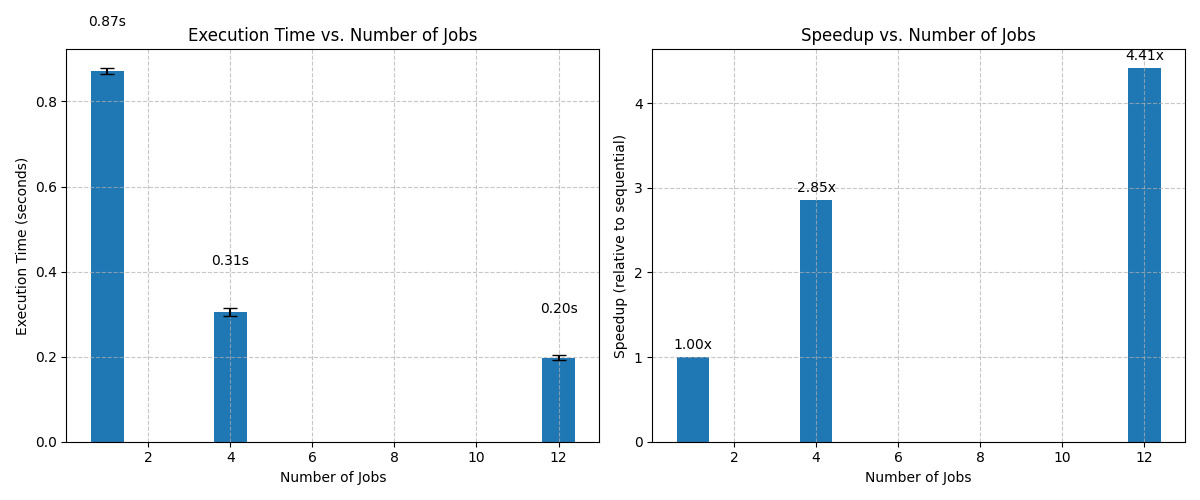
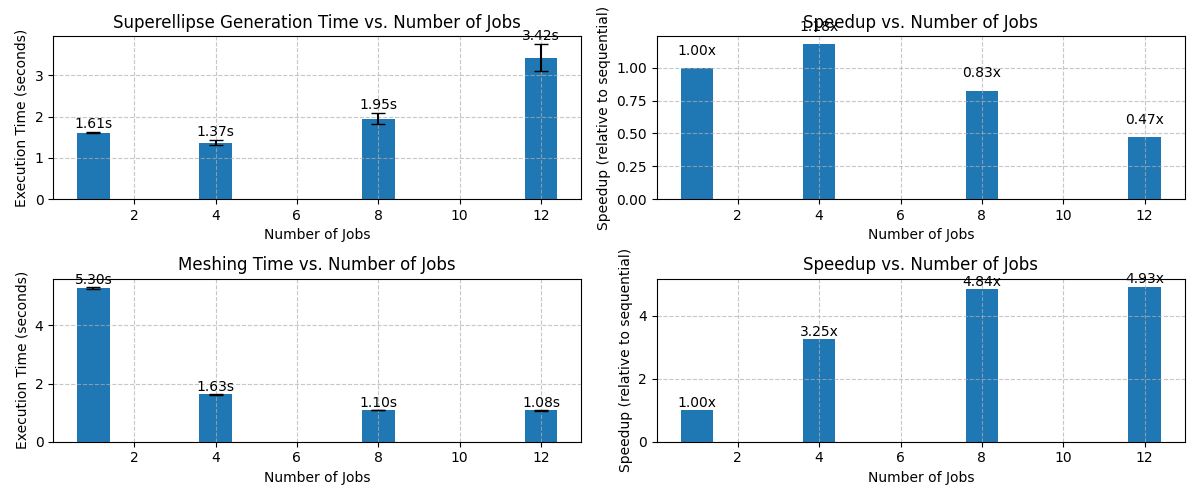
added parallel and benchmark for super ellipse computation

diff --git a/examples/uncertainty_tube_benchmark.py b/examples/uncertainty_tube_benchmark.py
@@ -1,6 +1,9 @@
+from operator import mul
+from tracemalloc import start
 import numpy as np
 import time
 import matplotlib.pyplot as plt
+import multiprocessing
 
 from uvisbox.Datasets import flowmap_3d
 from uvisbox.Interpolations import linear_interpolate
@@ -34,10 +37,26 @@ def benchmark_uncertainty_tube(n_seeds=100, n_steps=100, n_jobs_list=[1, 4, 12],
     
     # Generate cross sections (do this once, outside the timing loop)
     print("Generating cross sections...")
-    cross_sections, _ = generate_uncertainty_tube(trajectories, None, 16, e_proj=0.5)
+
+    superellipse_results = {}
+    for n_jobs in n_jobs_list:
+        times = []
+        for i in range(repeats):
+            start_time = time.perf_counter_ns()
+            _,_ = generate_uncertainty_tube(trajectories, None, 16, e_proj=0.5, n_jobs=n_jobs)
+            end_time = time.perf_counter_ns()
+            elapsed = (end_time - start_time) / 1e9  # Convert to seconds
+            times.append(elapsed)
+            print(f"n_jobs={n_jobs}, Run {i+1}/{repeats}: {elapsed:.3f} seconds")
+        mean_time = np.mean(times)
+        std_time = np.std(times)
+        print(f"n_jobs={n_jobs}: Mean time = {mean_time:.3f} ± {std_time:.3f} seconds")
+        superellipse_results[n_jobs] = {'times': times, 'mean': mean_time, 'std': std_time}
+
+    cross_sections, _ = generate_uncertainty_tube(trajectories, None, 16, e_proj=0.5, n_jobs=12)
     
     # Benchmark each n_jobs value
-    results = {}
+    meshing_results = {}
     
     for n_jobs in n_jobs_list:
         times = []
@@ -46,59 +65,88 @@ def benchmark_uncertainty_tube(n_seeds=100, n_steps=100, n_jobs_list=[1, 4, 12],
             print(f"  Run {i+1}/{repeats}...")
             
             # Time the mesh generation
-            start_time = time.time()
+            start_time = time.perf_counter_ns()
             _, _, _ = generate_tube_mesh(trajectories, cross_sections, n_jobs=n_jobs)
-            end_time = time.time()
+            end_time = time.perf_counter_ns()
             
-            elapsed = end_time - start_time
+            elapsed = (end_time - start_time)/1e9  # Convert to seconds
             times.append(elapsed)
             print(f"  Completed in {elapsed:.3f} seconds")
         
         # Store results
-        results[n_jobs] = {
+        meshing_results[n_jobs] = {
             'times': times,
             'mean': np.mean(times),
             'std': np.std(times)
         }
-        print(f"Average time with n_jobs={n_jobs}: {results[n_jobs]['mean']:.3f} ± {results[n_jobs]['std']:.3f} seconds")
+        print(f"Average time with n_jobs={n_jobs}: {meshing_results[n_jobs]['mean']:.3f} ± {meshing_results[n_jobs]['std']:.3f} seconds")
     
-    return results
+    return superellipse_results, meshing_results
 
-def plot_results(results):
+def plot_results(superellipse_results,meshing_results):
+    # Create figure with two subplots
+    fig, ax = plt.subplots(2, 2, figsize=(12, 5))
+    sax1, sax2 = ax[0]
     """Plot benchmark results."""
-    n_jobs_values = list(results.keys())
-    mean_times = [results[n_jobs]['mean'] for n_jobs in n_jobs_values]
-    std_times = [results[n_jobs]['std'] for n_jobs in n_jobs_values]
+    superellipse_n_jobs_values = list(superellipse_results.keys())
+    superellipse_mean_times = [superellipse_results[n_jobs]['mean'] for n_jobs in superellipse_n_jobs_values]
+    superellipse_std_times = [superellipse_results[n_jobs]['std'] for n_jobs in superellipse_n_jobs_values]
+    # Calculate speedup relative to sequential (n_jobs=1)
+    superellipse_sequential_time = superellipse_results[1]['mean']
+    superellipse_speedups = [superellipse_sequential_time / time for time in superellipse_mean_times]
+    # Plot superellipse generation times
+    sax1.bar(superellipse_n_jobs_values, superellipse_mean_times, yerr=superellipse_std_times, capsize=5)
+    sax1.set_xlabel('Number of Jobs') 
+    sax1.set_ylabel('Execution Time (seconds)')
+    sax1.set_title('Superellipse Generation Time vs. Number of Jobs')
+    sax1.grid(True, linestyle='--', alpha=0.7)
+    # Add time labels on top of bars
+    for i, time_val in enumerate(superellipse_mean_times):
+        sax1.text(superellipse_n_jobs_values[i], time_val + superellipse_std_times[i] + 0.1, 
+                 f"{time_val:.2f}s", ha='center')
+    # Plot speedup
+    sax2.bar(superellipse_n_jobs_values, superellipse_speedups)
+    sax2.set_xlabel('Number of Jobs')
+    sax2.set_ylabel('Speedup (relative to sequential)')
+    sax2.set_title('Speedup vs. Number of Jobs')
+    sax2.grid(True, linestyle='--', alpha=0.7)
+    # Add speedup labels on top of bars
+    for i, speedup in enumerate(superellipse_speedups):
+        sax2.text(superellipse_n_jobs_values[i], speedup + 0.1, f"{speedup:.2f}x", ha='center') 
+
+
+    meshing_n_jobs_values = list(meshing_results.keys())
+    meshing_mean_times = [meshing_results[n_jobs]['mean'] for n_jobs in meshing_n_jobs_values]
+    meshing_std_times = [meshing_results[n_jobs]['std'] for n_jobs in meshing_n_jobs_values]
     
     # Calculate speedup relative to sequential (n_jobs=1)
-    sequential_time = results[1]['mean']
-    speedups = [sequential_time / time for time in mean_times]
+    meshing_sequential_time = meshing_results[1]['mean']
+    meshing_speedups = [meshing_sequential_time / time for time in meshing_mean_times]
     
-    # Create figure with two subplots
-    fig, (ax1, ax2) = plt.subplots(1, 2, figsize=(12, 5))
-    
+    # Plot superellipse generation times
+    max1, max2 = ax[1]
     # Plot execution times
-    ax1.bar(n_jobs_values, mean_times, yerr=std_times, capsize=5)
-    ax1.set_xlabel('Number of Jobs')
-    ax1.set_ylabel('Execution Time (seconds)')
-    ax1.set_title('Execution Time vs. Number of Jobs')
-    ax1.grid(True, linestyle='--', alpha=0.7)
+    max1.bar(meshing_n_jobs_values, meshing_mean_times, yerr=meshing_std_times, capsize=5)
+    max1.set_xlabel('Number of Jobs')
+    max1.set_ylabel('Execution Time (seconds)')
+    max1.set_title('Meshing Time vs. Number of Jobs')
+    max1.grid(True, linestyle='--', alpha=0.7)
     
     # Add time labels on top of bars
-    for i, time_val in enumerate(mean_times):
-        ax1.text(n_jobs_values[i], time_val + std_times[i] + 0.1, 
+    for i, time_val in enumerate(meshing_mean_times):
+        max1.text(meshing_n_jobs_values[i], time_val + meshing_std_times[i] + 0.1, 
                  f"{time_val:.2f}s", ha='center')
     
     # Plot speedup
-    ax2.bar(n_jobs_values, speedups)
-    ax2.set_xlabel('Number of Jobs')
-    ax2.set_ylabel('Speedup (relative to sequential)')
-    ax2.set_title('Speedup vs. Number of Jobs')
-    ax2.grid(True, linestyle='--', alpha=0.7)
+    max2.bar(meshing_n_jobs_values, meshing_speedups)
+    max2.set_xlabel('Number of Jobs')
+    max2.set_ylabel('Speedup (relative to sequential)')
+    max2.set_title('Speedup vs. Number of Jobs')
+    max2.grid(True, linestyle='--', alpha=0.7)
     
     # Add speedup labels on top of bars
-    for i, speedup in enumerate(speedups):
-        ax2.text(n_jobs_values[i], speedup + 0.1, f"{speedup:.2f}x", ha='center')
+    for i, speedup in enumerate(meshing_speedups):
+        max2.text(meshing_n_jobs_values[i], speedup + 0.1, f"{speedup:.2f}x", ha='center')
     
     plt.tight_layout()
     plt.savefig('tube_mesh_benchmark.png')
@@ -106,21 +154,21 @@ def plot_results(results):
 
 if __name__ == "__main__":
     # Set parameters
-    n_seeds = 50  # More seeds means more work to parallelize
+    n_seeds = 300  # More seeds means more work to parallelize
     n_steps = 100
-    n_jobs_list = [1, 4, 12]
+    n_jobs_list = [1, 4, 8,multiprocessing.cpu_count()]  # Test with different n_jobs values
     repeats = 3
     
     # Run benchmark
-    results = benchmark_uncertainty_tube(n_seeds, n_steps, n_jobs_list, repeats)
+    superellipse_results, meshing_results = benchmark_uncertainty_tube(n_seeds, n_steps, n_jobs_list, repeats)
     
     # Plot results
-    plot_results(results)
+    plot_results(superellipse_results,meshing_results)
     
     # Print summary
     print("\nPerformance Summary:")
     print("-------------------")
-    baseline = results[1]['mean']
+    baseline = meshing_results[1]['mean']
     for n_jobs in n_jobs_list:
-        speedup = baseline / results[n_jobs]['mean']
-        print(f"n_jobs={n_jobs}: {results[n_jobs]['mean']:.3f}s ± {results[n_jobs]['std']:.3f}s (Speedup: {speedup:.2f}x)")
+        speedup = baseline / meshing_results[n_jobs]['mean']
+        print(f"n_jobs={n_jobs}: {meshing_results[n_jobs]['mean']:.3f}s ± {meshing_results[n_jobs]['std']:.3f}s (Speedup: {speedup:.2f}x)")

diff --git a/uvisbox/UncertaintyTube/uncertainty_tube.py b/uvisbox/UncertaintyTube/uncertainty_tube.py
@@ -123,7 +123,7 @@ def uncertainty_cross_section(point0, point1, points, resolution=16, e_proj=1, s
     eigen_values = np.tile(eigvals_proj[:2], (cross_section_3d.shape[0], 1))
     return cross_section_3d, eigen_values
 
-def generate_uncertainty_tube(trajectories, major_trajectory=None, resolution=20, e_proj=1, sym=False):
+def generate_uncertainty_tube(trajectories, major_trajectory=None, resolution=20, e_proj=1, sym=False, n_jobs=1):
     """
     Compute 3D uncertainty cross-sections along trajectory paths.
 
@@ -144,6 +144,8 @@ def generate_uncertainty_tube(trajectories, major_trajectory=None, resolution=20
             Defaults to 1.
         sym (bool, optional): If True, forces the superellipse to be symmetric by
             setting both axes to the same length. Defaults to False.
+        n_jobs (int, optional): Number of parallel jobs to use. If n_jobs=1, uses sequential processing.
+            Defaults to 1.
 
     Returns:
         tuple:
@@ -171,17 +173,47 @@ def generate_uncertainty_tube(trajectories, major_trajectory=None, resolution=20
         for res_index in range(resolution):
             uncertainty_tube[0, location_index, res_index, :] = major_trajectory[0, location_index, :]
 
+    use_parallel = n_jobs != 1
+    if use_parallel:
+        try:
+            import multiprocessing as mp
+            mp.get_context('fork')
+        except (ImportError, ValueError):
+            use_parallel = False
+            print("Warning: multiprocessing with 'fork' context not available. Using sequential processing instead.")
+
     # Calculate uncertainty cross-sections for each time step and starting location
     for step_index in range(1, n_steps):
-        for location_index in range(n_starting_locations):
-            # Calculate cross-section boundary and eigenvalues
-            uncertainty_tube[step_index, location_index, :, :], eigen_values[step_index, location_index, :, :] = uncertainty_cross_section(
-                major_trajectory[step_index-1, location_index, :],  # previous major trajectory point
-                major_trajectory[step_index, location_index, :],    # current major trajectory point
-                trajectories[step_index, location_index, :, :],     # ensemble samples at current time
-                resolution=resolution,
-                e_proj=e_proj, 
-                sym=sym
-            )
+        if use_parallel:
+            pool_context = mp.get_context('fork')
+            with pool_context.Pool(processes=n_jobs) as pool:
+                results = pool.starmap(
+                    uncertainty_cross_section,
+                    [
+                        (
+                            major_trajectory[step_index-1, location_index, :],
+                            major_trajectory[step_index, location_index, :],
+                            trajectories[step_index, location_index, :, :],
+                            resolution,
+                            e_proj,
+                            sym
+                        ) for location_index in range(n_starting_locations)
+                    ]
+                )
+            # Unpack results
+            for location_index, (cs, ev) in enumerate(results):
+                uncertainty_tube[step_index, location_index, :, :] = cs
+                eigen_values[step_index, location_index, :, :] = ev
+        else:
+            for location_index in range(n_starting_locations):
+                # Calculate cross-section boundary and eigenvalues
+                uncertainty_tube[step_index, location_index, :, :], eigen_values[step_index, location_index, :, :] = uncertainty_cross_section(
+                    major_trajectory[step_index-1, location_index, :],  # previous major trajectory point
+                    major_trajectory[step_index, location_index, :],    # current major trajectory point
+                    trajectories[step_index, location_index, :, :],     # ensemble samples at current time
+                    resolution=resolution,
+                    e_proj=e_proj, 
+                    sym=sym
+                )
 
     return uncertainty_tube, eigen_values

diff --git a/examples/uncertainty_tube.py b/examples/uncertainty_tube.py
@@ -24,7 +24,7 @@ seeds = np.random.uniform(-1,1, (number_of_seeds, 3))
 
 trajectories = flowmap_3d(seeds, t0, t1, n_steps, scale=scale, xy_scale=xy_scale)
 
-cross_sections, eigen_values = generate_uncertainty_tube(trajectories, None, 16, e_proj=0.5)
+cross_sections, eigen_values = generate_uncertainty_tube(trajectories, None, 16, e_proj=0.5, n_jobs=4)
 eigen_values = np.transpose(eigen_values, (1,0,2,3))
 eigen_values = eigen_values.reshape((-1,2)).astype(np.float32)
 
